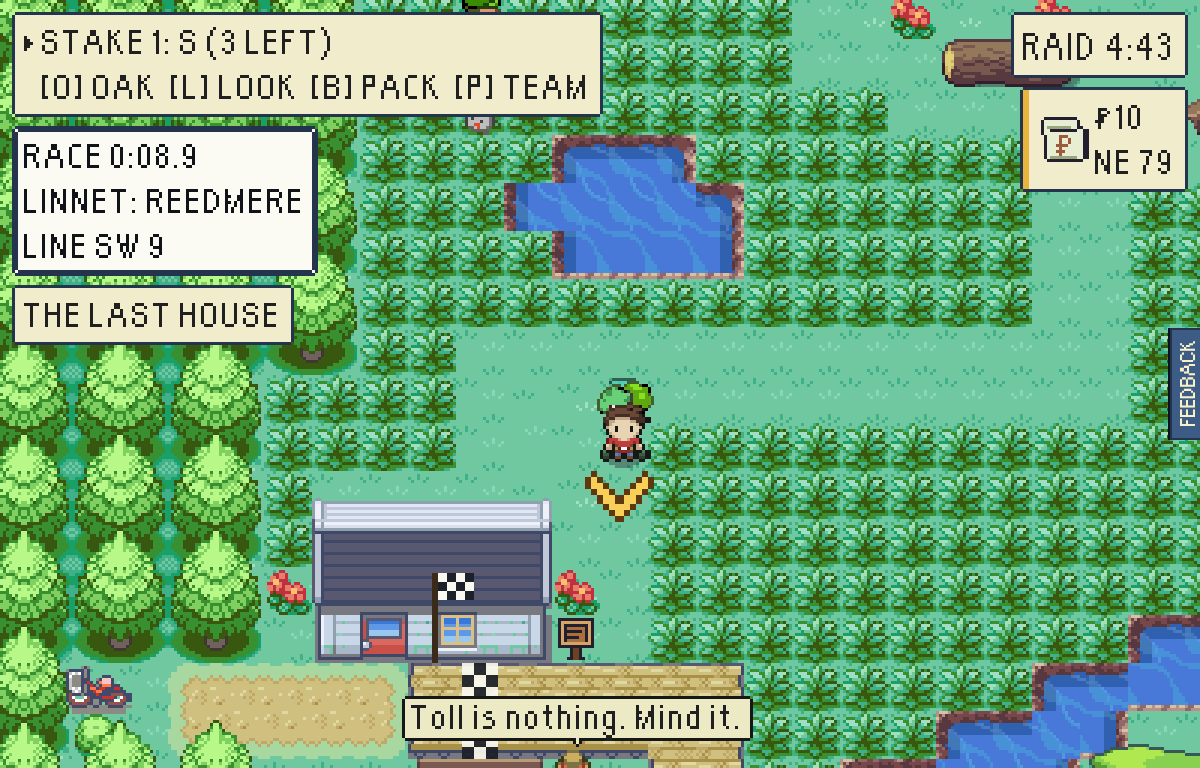
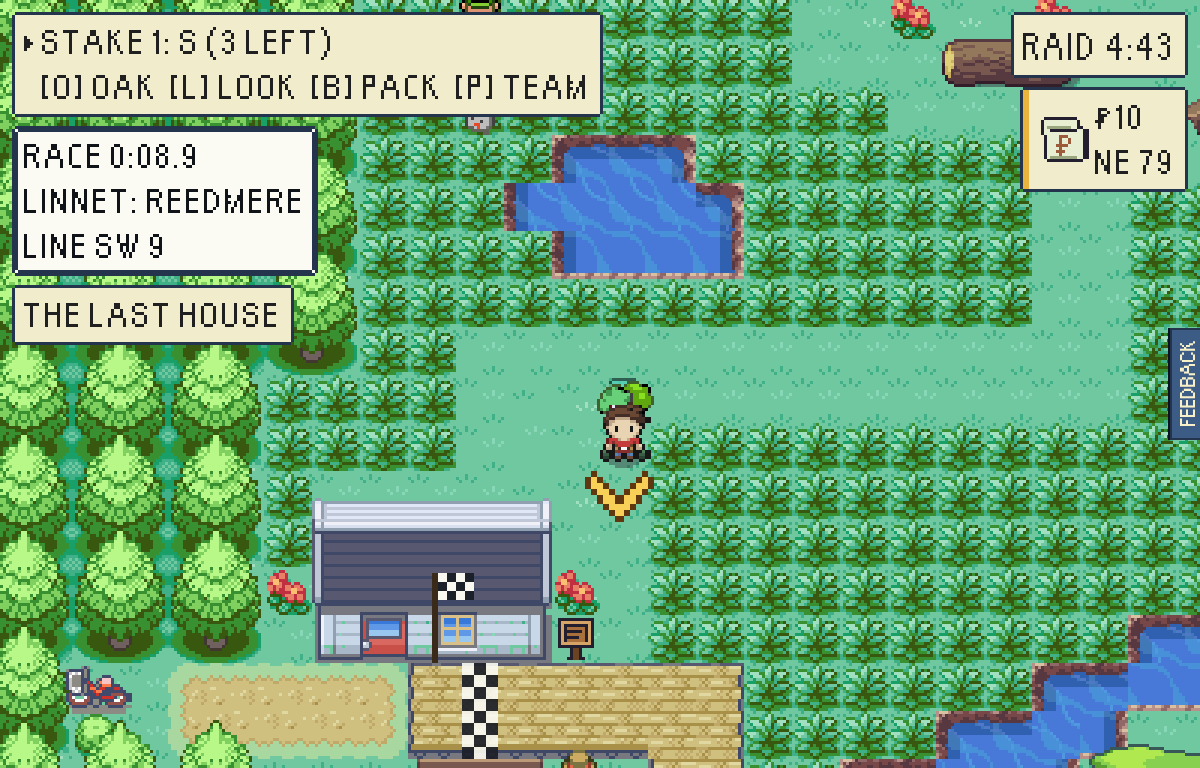
LINNET has a PERFECT from REEVE, not from watching it, and the dry-way picture is retaken at the head

Changed region(s): [[0.3083, 0.9062, 0.6475, 1.0], [0.37, 0.0, 0.4317, 0.0312]]

diff --git a/src/game/world/races.test.ts b/src/game/world/races.test.ts
@@ -308,7 +308,7 @@ describe('what LINNET says', () => {
     // The tenth identical win is not met with the first one's surprise.
     expect(racerArrivesLines(course, { ...input, beatenBefore: true }).join(' ')).toContain('Again?!');
     expect(racerArrivesLines(course, { ...input, medal: 'gold', timeMs: 10_500, firstGold: false, hadPerfect: true }).join(' ')).toContain("You've done it in 0:09.3");
-    expect(racerArrivesLines(course, { ...input, medal: 'gold', timeMs: 9_300 }).join(' ')).toContain('Not a step wasted');
+    expect(racerArrivesLines(course, { ...input, medal: 'gold', timeMs: 9_300 }).join(' ')).toBe("LINNET: REEVE says not a step wasted. Not ONE. I'm going to be sick.");
     // Once the ride is cut it is no longer grown shut.
     expect(racerArrivesLines(course, { ...input, shortcutOpen: true }).join(' ')).toContain('open now');
     // The first GOLD is the best run she has ever seen; the tenth is not.

diff --git a/src/game/world/races.ts b/src/game/world/races.ts
@@ -494,7 +494,9 @@ export function racerArrivesLines(course: RaceCourse, input: RaceResultInput): s
   const racer = course.racer.name;
   const behind = gapWords(shownGap(input.racerMs, input.timeMs));
   if (input.medal === 'gold' && isPerfect(course, input.timeMs)) {
-    return [`${racer}: Not a step wasted. I watched. I'm going to be sick.`];
+    // She was round the mere when it was run: she has it from the judge.
+    const judge = course.judge.name.split(' ').pop();
+    return [`${racer}: ${judge} says not a step wasted. Not ONE. I'm going to be sick.`];
   }
   const tip = perfectTip(course, input);
   if (input.medal === 'gold') {

diff --git a/docs/screens/linnet-race-6/README.md b/docs/screens/linnet-race-6/README.md
@@ -8,5 +8,6 @@ beside its wall (`2-dry-way-down-to-the-last-house.png`). Straight through the o
 PERFECT - is still a wade.
 
 Played three times with a held start (`node tools/playtest/race.mjs "$URL" --hold --line=cut
---opened=greystone-vale/door-2`): 68 steps, 0 wild, no fight, GOLD 0:10.2 each time. Pictures from a
+--opened=greystone-vale/door-2`): 68 steps, 0 wild, no fight, GOLD 0:10.2 each time. Nothing stands over the
+finish: OLD REEVE keeps quiet while a race is on. Pictures from a
 test-mode build at `?testmode=pixels`, 1200x768 (`--pixels --shot-every=800`).
